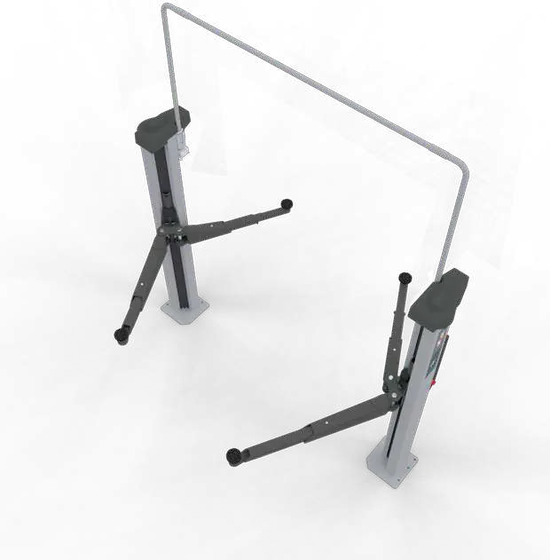
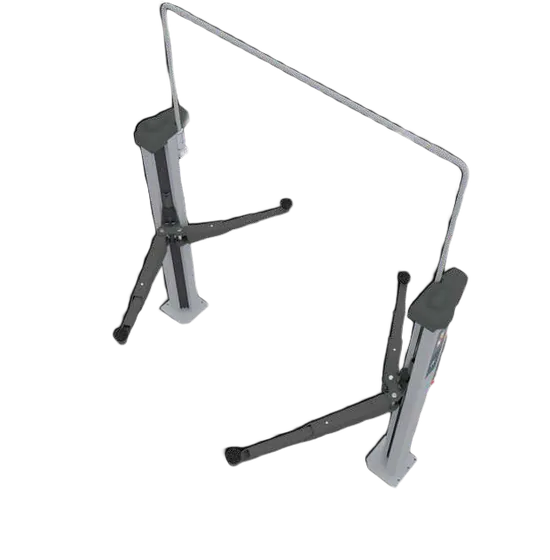
Pantalla de contraseña, pictogramas nuevos y foto del SDX35 sin fondo
- Pantalla de acceso con contraseña (barrera visual; se guarda solo el hash).
- Pictogramas de familia generados con Higgsfield en portada y categorías.
- Foto principal del SDX35 sin fondo (scripts/fotos-retocadas).

diff --git a/src/components/ClaveAcceso.tsx b/src/components/ClaveAcceso.tsx
@@ -1,0 +1,91 @@
+"use client";
+
+// Pantalla de contraseña. Es solo una barrera visual: la web es estática y
+// pública, así que no protege los datos. Se guarda el hash, nunca la clave.
+import { Lock } from "lucide-react";
+import { useEffect, useState, type ReactNode } from "react";
+import { MARCA } from "@/config/marca";
+
[1 lines of base64/hex data omitted]
+const CLAVE_ALMACEN = "cm:acceso";
+
+async function sha256(texto: string): Promise<string> {
+  const datos = await crypto.subtle.digest("SHA-256", new TextEncoder().encode(texto));
+  return [...new Uint8Array(datos)].map((b) => b.toString(16).padStart(2, "0")).join("");
+}
+
+export function ClaveAcceso({ children }: { children: ReactNode }) {
+  const [estado, setEstado] = useState<"comprobando" | "bloqueado" | "abierto">("comprobando");
+  const [clave, setClave] = useState("");
+  const [error, setError] = useState(false);
+
+  useEffect(() => {
+    let guardado: string | null = null;
+    try {
+      guardado = localStorage.getItem(CLAVE_ALMACEN);
+    } catch {
+      /* sin almacenamiento: se pide la clave en cada visita */
+    }
+    setEstado(guardado === HASH_CLAVE ? "abierto" : "bloqueado");
+  }, []);
+
+  async function entrar(e: React.FormEvent) {
+    e.preventDefault();
+    if ((await sha256(clave)) === HASH_CLAVE) {
+      try {
+        localStorage.setItem(CLAVE_ALMACEN, HASH_CLAVE);
+      } catch {
+        /* se mantiene abierto solo en esta pestaña */
+      }
+      setEstado("abierto");
+    } else {
+      setError(true);
+      setClave("");
+    }
+  }
+
+  if (estado === "abierto") return <>{children}</>;
+
+  return (
+    <div className="fixed inset-0 z-[200] flex items-center justify-center bg-marino-900 px-4">
+      {estado === "bloqueado" && (
+        <form onSubmit={entrar} className="w-full max-w-sm rounded-2xl bg-white p-6 shadow-elevada">
+          <div className="flex items-center gap-3">
+            <span className="flex h-11 w-11 items-center justify-center rounded-xl bg-marino-900 text-white">
+              <Lock className="h-5 w-5" aria-hidden="true" />
+            </span>
+            <div>
+              <p className="font-display text-xl font-semibold uppercase text-marino-950">{MARCA.nombre}</p>
+              <p className="text-sm text-slate-600">Acceso restringido</p>
+            </div>
+          </div>
+          <label htmlFor="clave-acceso" className="mt-6 block text-sm font-medium text-marino-950">
+            Contraseña
+          </label>
+          <input
+            id="clave-acceso"
+            type="password"
+            autoFocus
+            autoComplete="current-password"
+            value={clave}
+            onChange={(e) => {
+              setClave(e.target.value);
+              setError(false);
+            }}
+            className="mt-1 h-12 w-full rounded-xl border border-slate-300 px-3 text-base outline-none focus:border-acento-500"
+            aria-invalid={error}
+            aria-describedby={error ? "clave-error" : undefined}
+          />
+          {error && (
+            <p id="clave-error" className="mt-2 text-sm text-red-700">
+              Contraseña incorrecta.
+            </p>
+          )}
+          <button type="submit" className="mt-5 h-12 w-full rounded-xl bg-marino-900 font-semibold text-white hover:bg-marino-700">
+            Entrar
+          </button>
+        </form>
+      )}
+    </div>
+  );
+}

diff --git a/src/app/page.tsx b/src/app/page.tsx
@@ -2,7 +2,7 @@ import Link from "next/link";
 import { ArrowRight, FileText, GitCompareArrows, Heart, WandSparkles } from "lucide-react";
 import { Buscador } from "@/components/Buscador";
 import { Foto } from "@/components/Foto";
-import { IconoFamilia } from "@/components/IconoFamilia";
+import { PictogramaFamilia } from "@/components/PictogramaFamilia";
 import { MARCA } from "@/config/marca";
 import { asset, PDF_CATALOGO } from "@/lib/asset";
 import { imagenPrincipal, marcas, productosDeFamilia } from "@/lib/catalogo";
@@ -64,9 +64,7 @@ export default function Inicio() {
                   className="group flex h-full overflow-hidden rounded-2xl border border-slate-200/80 bg-white shadow-tarjeta transition-shadow hover:shadow-elevada"
                 >
                   <div className="flex flex-1 flex-col p-6">
-                    <span className="flex h-12 w-12 items-center justify-center rounded-xl text-white" style={{ backgroundColor: f.color }}>
-                      <IconoFamilia familia={f.id} className="h-6 w-6" />
-                    </span>
+                    <PictogramaFamilia familia={f.id} className="h-14 w-14 rounded-xl" />
                     <h3 className="mt-4 font-display text-2xl font-semibold text-marino-950">{f.nombre}</h3>
                     <p className="mt-1 text-sm font-semibold text-acento-600">
                       {productos.length} {productos.length === 1 ? "equipo" : "equipos"}

diff --git a/src/app/categoria/[familia]/page.tsx b/src/app/categoria/[familia]/page.tsx
@@ -2,7 +2,7 @@ import type { Metadata } from "next";
 import Link from "next/link";
 import { notFound } from "next/navigation";
 import { Explorador } from "@/components/Explorador";
-import { IconoFamilia } from "@/components/IconoFamilia";
+import { PictogramaFamilia } from "@/components/PictogramaFamilia";
 import { productosDeFamilia } from "@/lib/catalogo";
 import { FAMILIAS, familiaPorId } from "@/lib/familias";
 
@@ -28,9 +28,7 @@ export default async function PaginaCategoria({ params }: { params: Promise<{ fa
       <div className="relative overflow-hidden border-b border-slate-200 bg-white">
         <div className="absolute inset-y-0 left-0 w-1.5" style={{ backgroundColor: f.color }} aria-hidden="true" />
         <div className="mx-auto flex max-w-[1440px] flex-col gap-6 px-4 py-8 sm:px-6 md:flex-row md:items-center lg:px-8">
-          <span className="flex h-16 w-16 shrink-0 items-center justify-center rounded-2xl text-white" style={{ backgroundColor: f.color }}>
-            <IconoFamilia familia={f.id} className="h-8 w-8" />
-          </span>
+          <PictogramaFamilia familia={f.id} className="h-16 w-16 rounded-2xl" />
           <div className="flex-1">
             <nav aria-label="Ruta" className="text-sm text-slate-600">
               <Link href="/catalogo/" className="hover:underline">

diff --git a/src/app/layout.tsx b/src/app/layout.tsx
@@ -3,6 +3,7 @@ import { Barlow_Semi_Condensed } from "next/font/google";
 import { Avisos } from "@/components/Avisos";
 import { BarraComparar } from "@/components/BarraComparar";
 import { Cabecera } from "@/components/Cabecera";
+import { ClaveAcceso } from "@/components/ClaveAcceso";
 import { Pie } from "@/components/Pie";
 import { MARCA } from "@/config/marca";
 import { StoreProvider } from "@/lib/store";
@@ -31,6 +32,7 @@ export default function RootLayout({ children }: { children: React.ReactNode }) 
   return (
     <html lang="es" className={barlow.variable}>
       <body className="min-h-dvh flex flex-col">
+        <ClaveAcceso>
         <StoreProvider>
           <a
             href="#contenido"
@@ -46,6 +48,7 @@ export default function RootLayout({ children }: { children: React.ReactNode }) 
           <BarraComparar />
           <Avisos />
         </StoreProvider>
+        </ClaveAcceso>
       </body>
     </html>
   );

diff --git a/src/components/PictogramaFamilia.tsx b/src/components/PictogramaFamilia.tsx
@@ -1,0 +1,10 @@
+import { asset } from "@/lib/asset";
+import type { FamiliaId } from "@/lib/types";
+
+/** Pictograma ilustrado de cada familia (generado con Higgsfield, public/img/iconos). */
+export function PictogramaFamilia({ familia, className = "" }: { familia: FamiliaId; className?: string }) {
+  return (
+    // eslint-disable-next-line @next/next/no-img-element
+    <img src={asset(`/img/iconos/${familia}.webp`)} alt="" width={192} height={192} className={`shrink-0 object-cover ${className}`} />
+  );
+}

diff --git a/scripts/extraer_imagenes.py b/scripts/extraer_imagenes.py
@@ -232,7 +232,9 @@ def main(pdf):
         os.makedirs(carpeta, exist_ok=True)
         manifiesto[slug] = []
         for n, (xref, tipo, alt, *extra) in enumerate(lista, 1):
-            img = extraer(doc, xref)
+            retocada = os.path.join(RAIZ, "scripts", "fotos-retocadas", f"{slug}-{n}.png")
+            # Si hay una versión retocada (p. ej. sin fondo), se usa en lugar de la del PDF.
+            img = Image.open(retocada) if os.path.exists(retocada) else extraer(doc, xref)
             original = max(img.size)
             factor = extra[0] if extra else factor_auto(img, tipo)
             if factor > 1:
